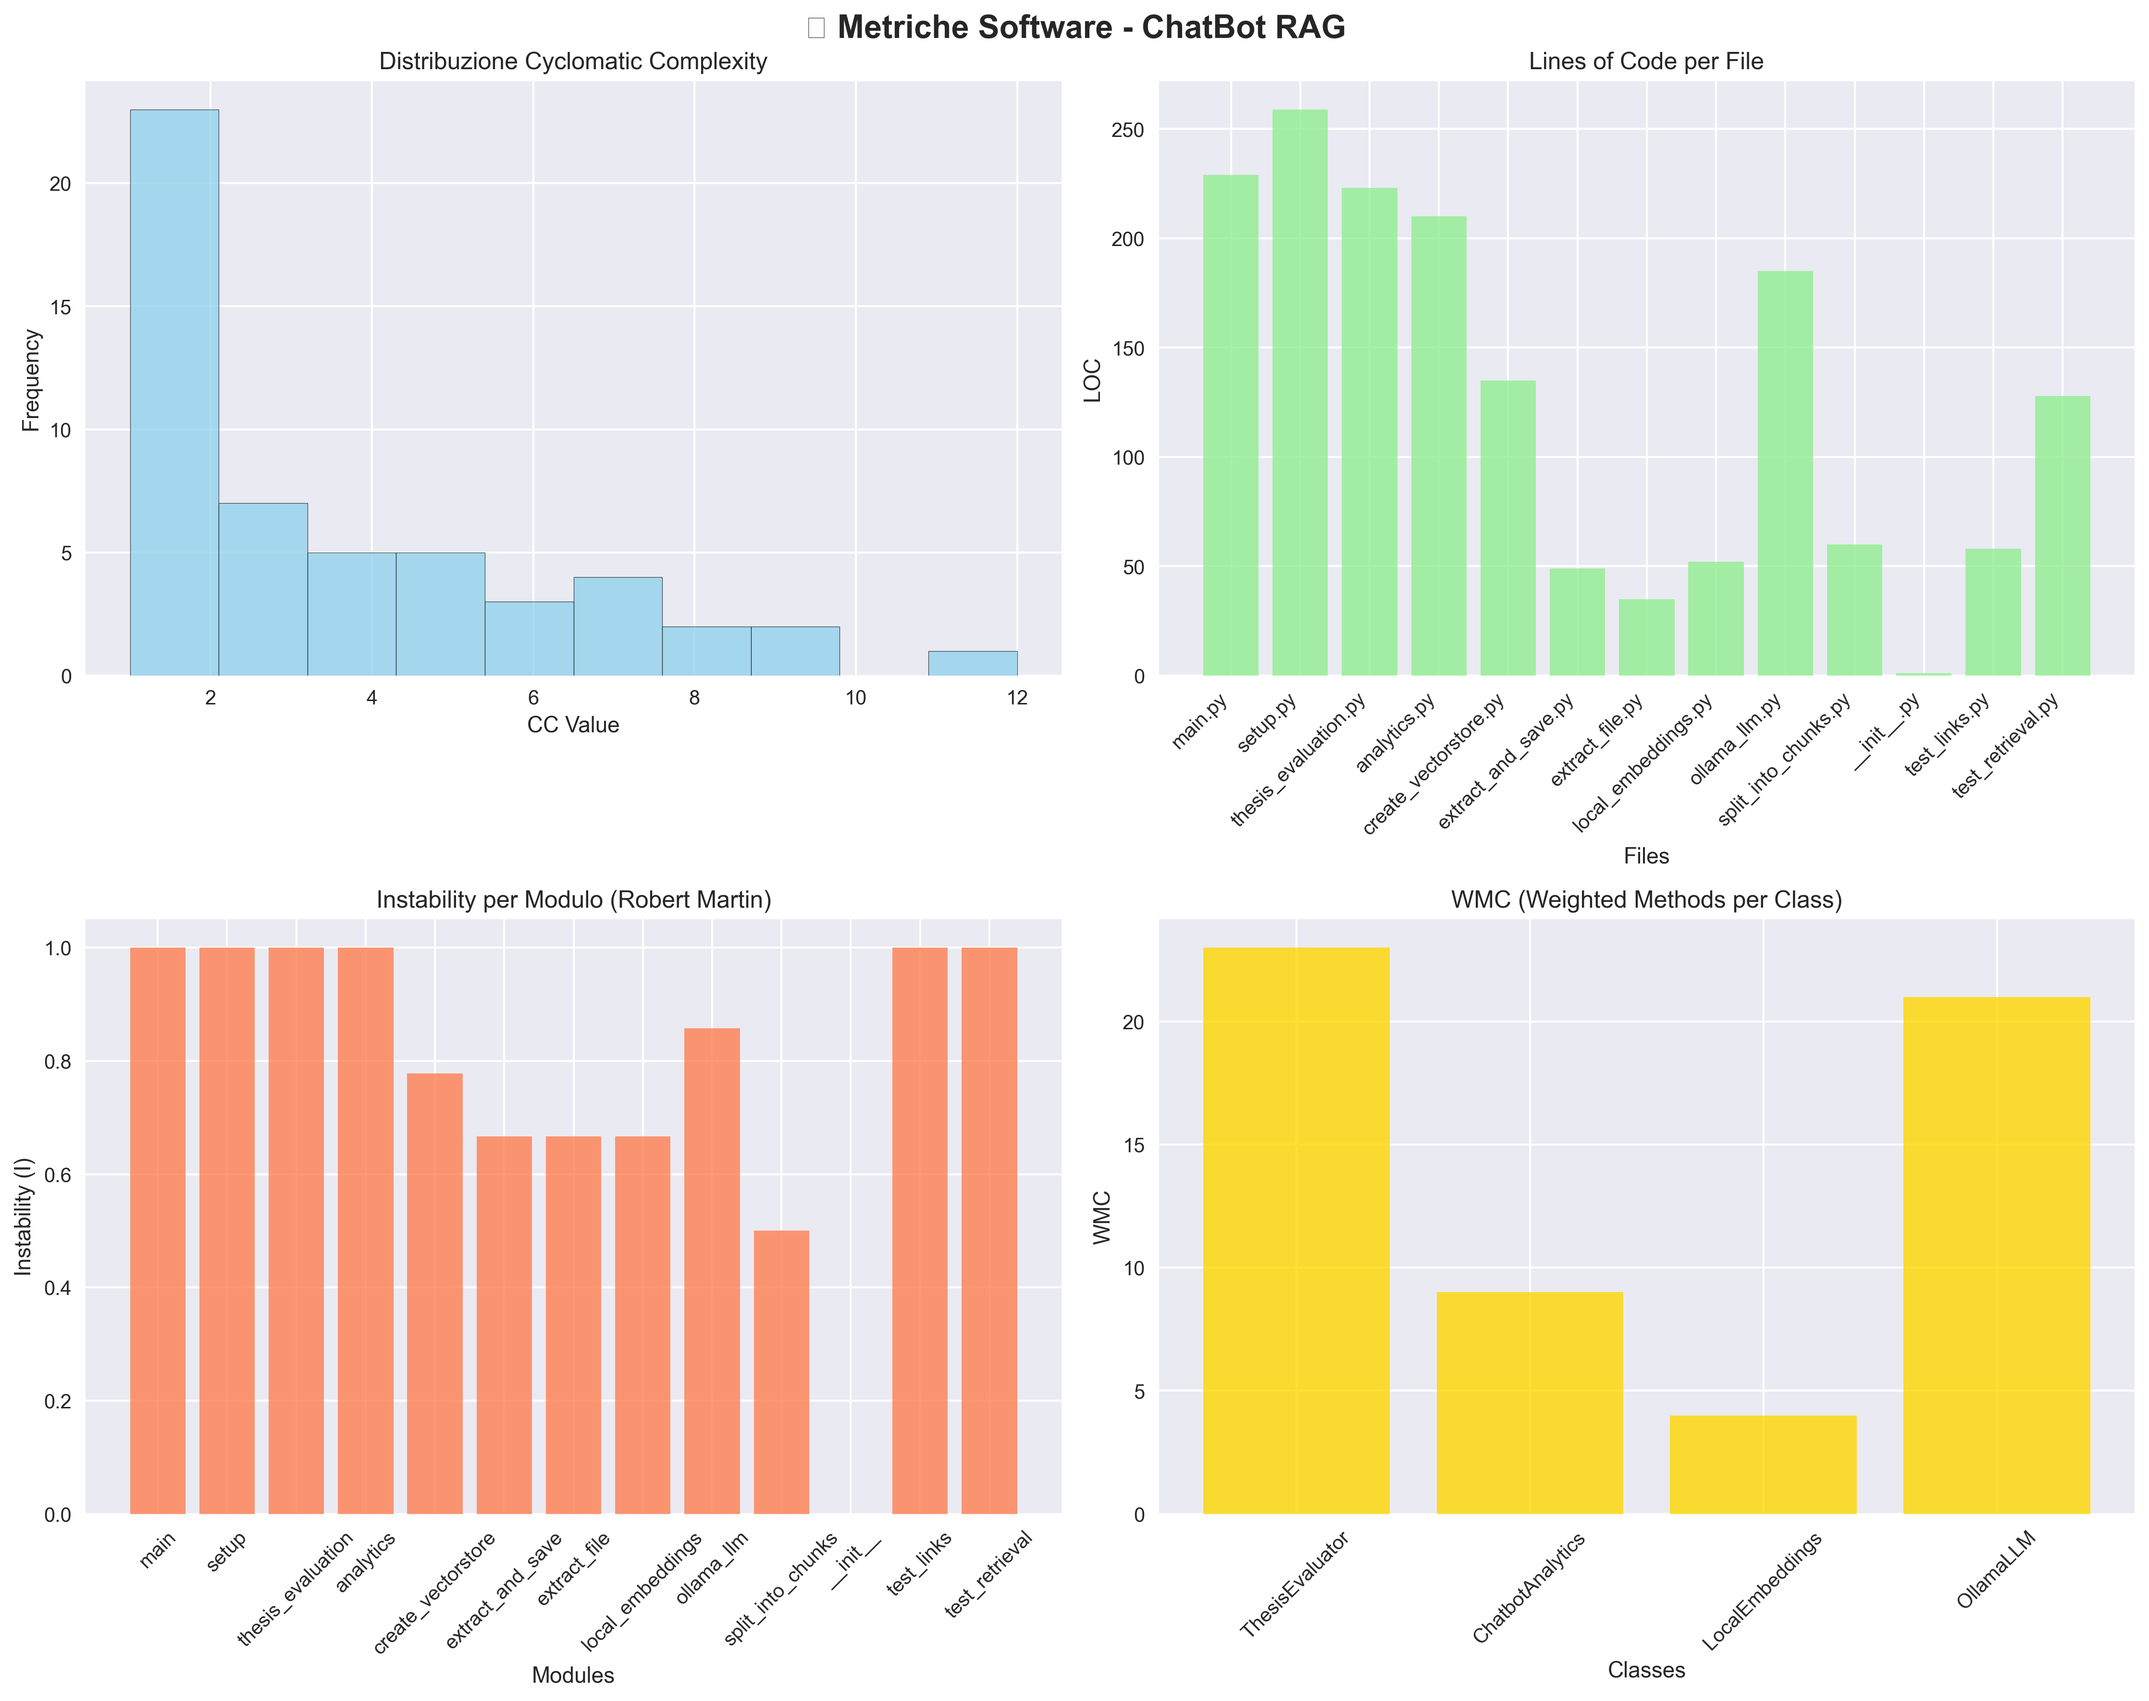
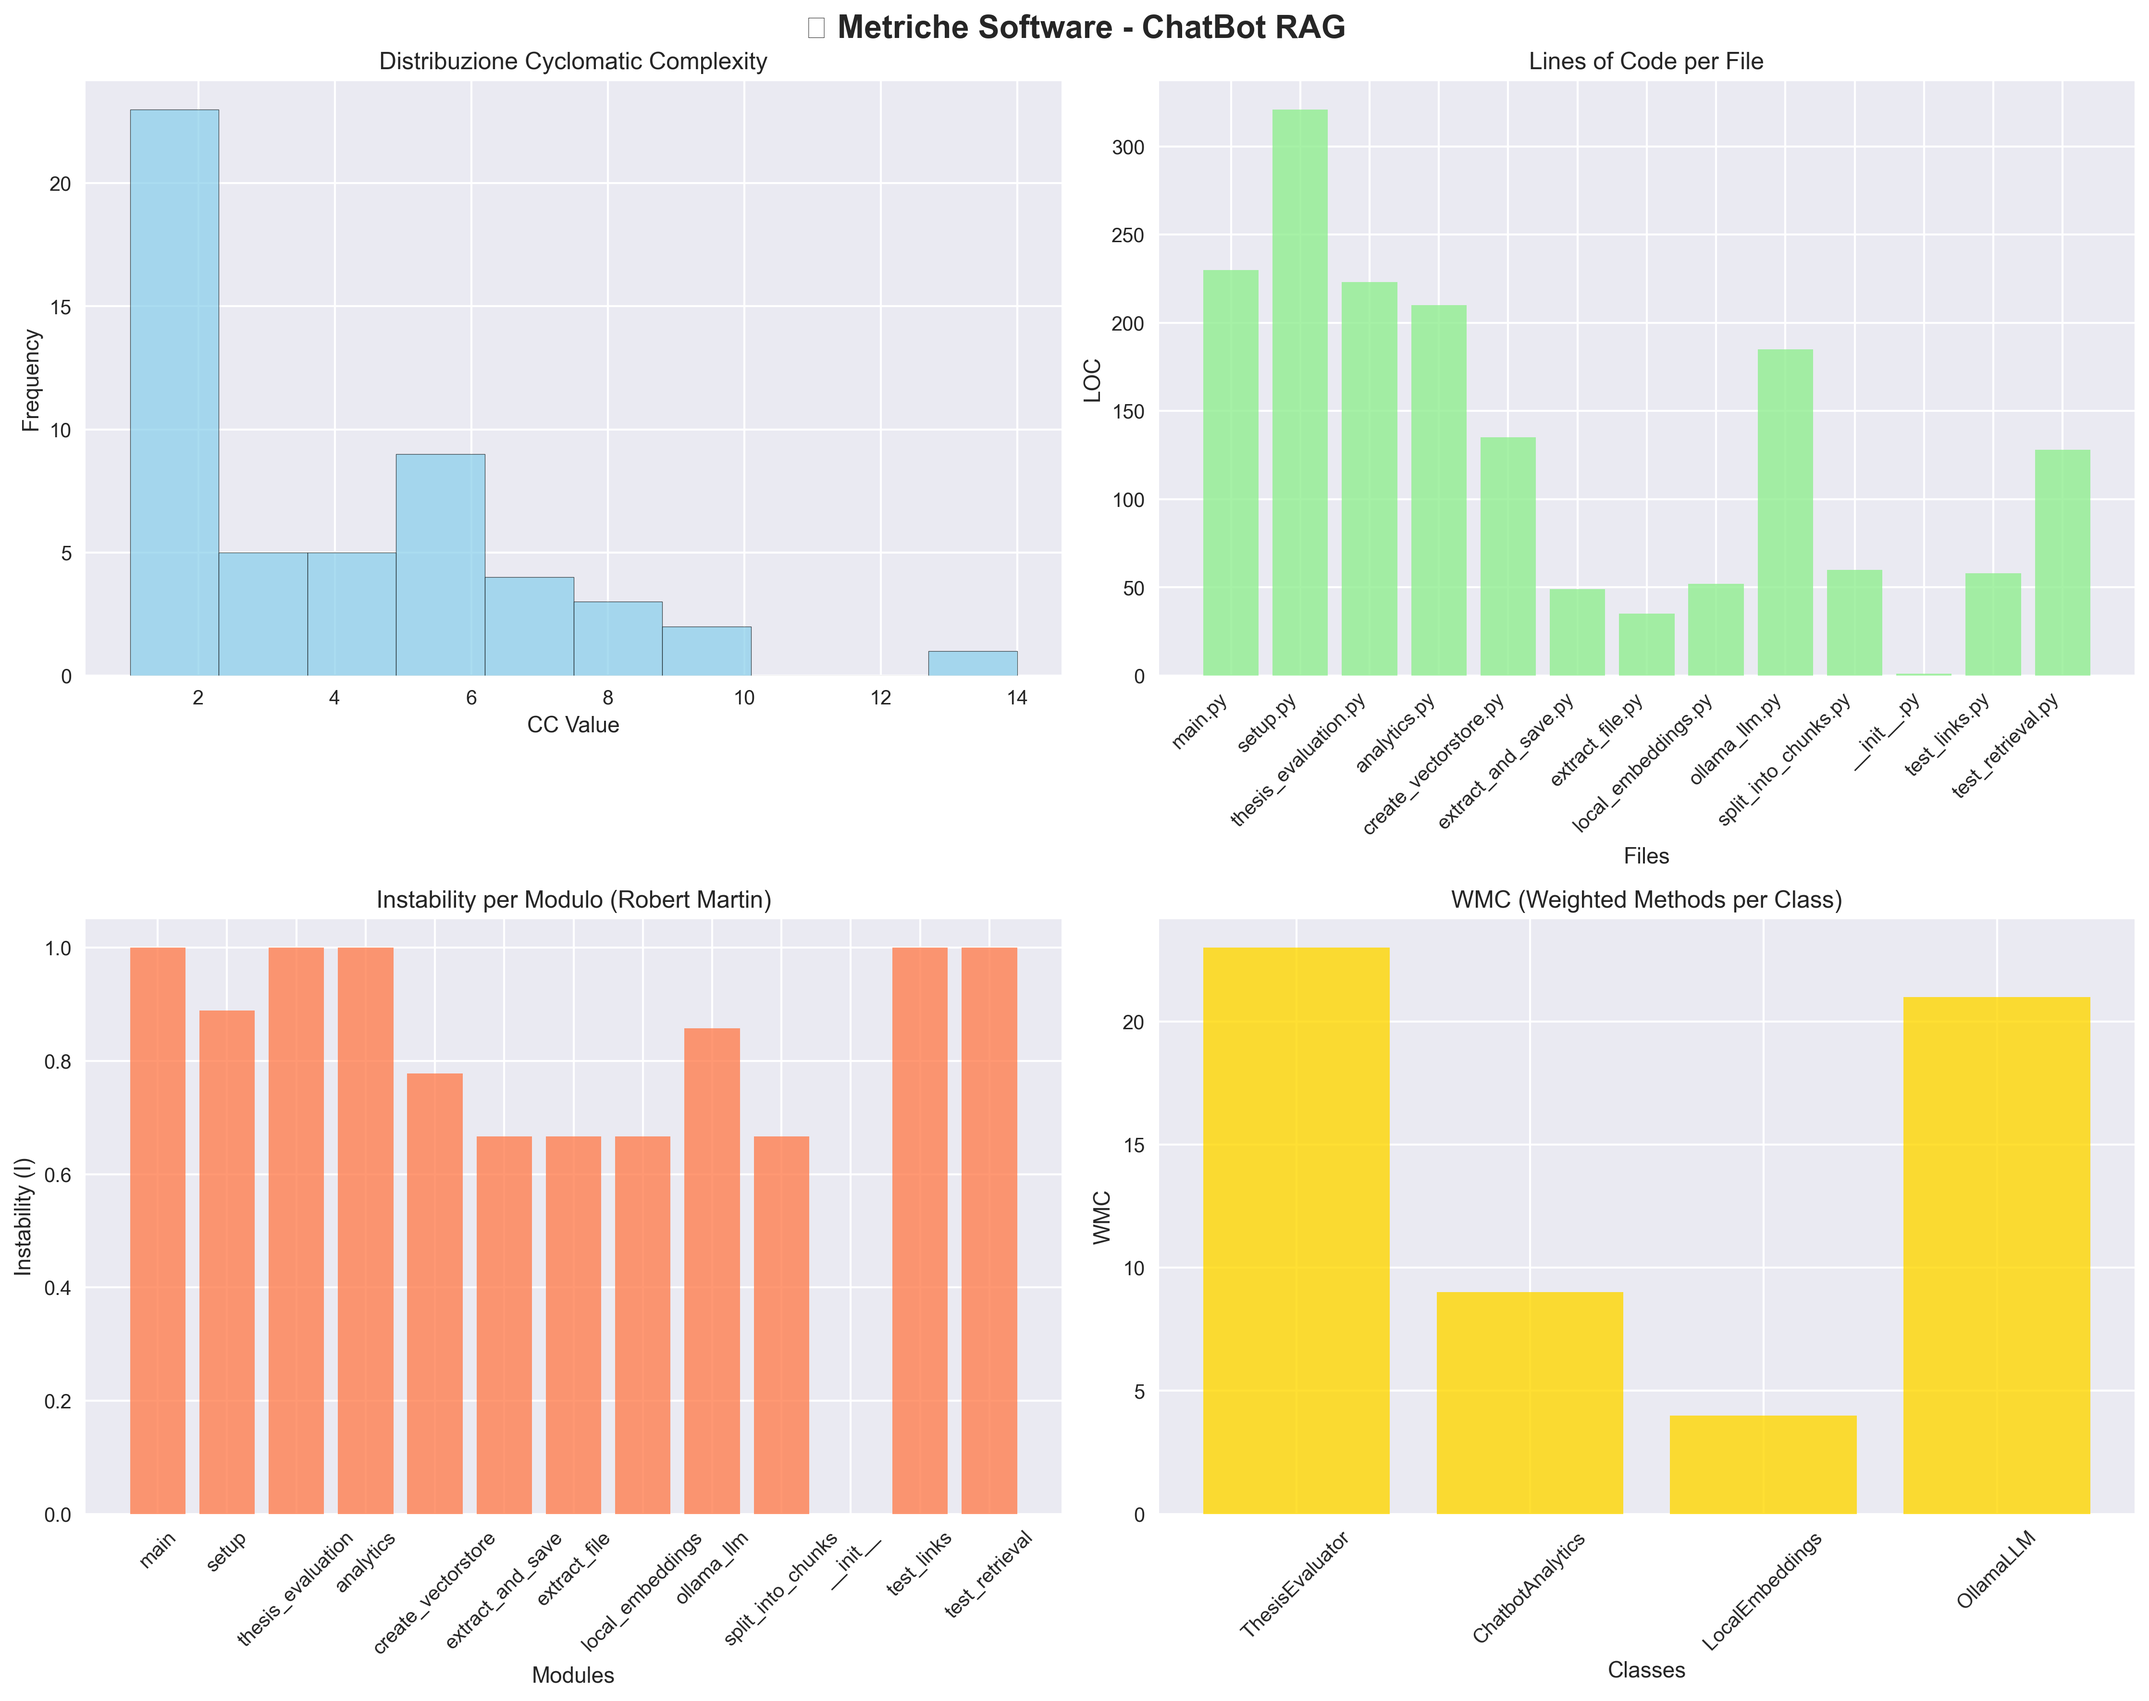
fix file .bat

diff --git a/ChatBot_SegreteriaStudenti/results/software_metrics_report.md b/ChatBot_SegreteriaStudenti/results/software_metrics_report.md
@@ -1,28 +1,28 @@
-# REPORT METRICHE SOFTWARE - ChatBot RAG
+# 📊 REPORT METRICHE SOFTWARE - ChatBot RAG
 
-## SUMMARY GENERALE
+## 🎯 SUMMARY GENERALE
 
 - **File analizzati:** 13
-- **Linee di codice totali:** 1624
+- **Linee di codice totali:** 1687
 - **Classi totali:** 4
 - **Funzioni totali:** 31
 - **Import totali:** 66
-- **CC medio:** 2.60
-- **CC massimo:** 12
+- **CC medio:** 2.81
+- **CC massimo:** 14
 
-## ANALISI PER FILE
+## 📁 ANALISI PER FILE
 
 ### main.py
-- **LOC:** 229
+- **LOC:** 230
 - **Classi:** 0
 - **Funzioni:** 6
-- **CC totale:** 34
+- **CC totale:** 36
 
 ### setup.py
-- **LOC:** 259
+- **LOC:** 321
 - **Classi:** 0
 - **Funzioni:** 11
-- **CC totale:** 42
+- **CC totale:** 51
 
 ### thesis_evaluation.py
 - **LOC:** 223
@@ -94,12 +94,12 @@
 - **Funzioni:** 3
 - **CC totale:** 22
 
-## METRICHE ROBERT MARTIN
+## 🔗 METRICHE ROBERT MARTIN
 
 | Modulo | Ca (Afferent) | Ce (Efferent) | Instability |
 |--------|---------------|---------------|-------------|
 | main | 0 | 10 | 1.000 |
-| setup | 0 | 8 | 1.000 |
+| setup | 1 | 8 | 0.889 |
 | thesis_evaluation | 0 | 11 | 1.000 |
 | analytics | 0 | 6 | 1.000 |
 | create_vectorstore | 2 | 7 | 0.778 |
@@ -107,7 +107,7 @@
 | extract_file | 1 | 2 | 0.667 |
 | local_embeddings | 2 | 4 | 0.667 |
 | ollama_llm | 1 | 6 | 0.857 |
-| split_into_chunks | 2 | 2 | 0.500 |
+| split_into_chunks | 1 | 2 | 0.667 |
 | __init__ | 0 | 0 | 0.000 |
 | test_links | 0 | 4 | 1.000 |
 | test_retrieval | 0 | 4 | 1.000 |
